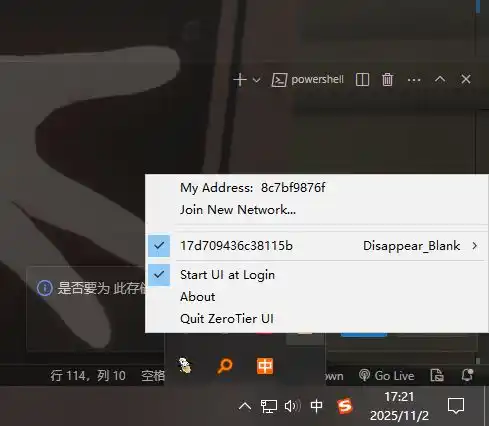
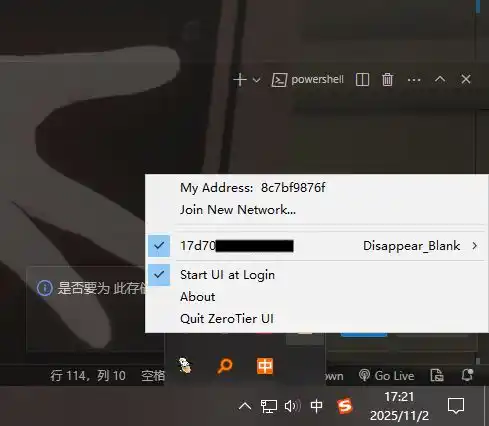
添加roop，以及更正图片

Changed region(s): [[0.4294, 0.5493, 0.6135, 0.6103]]

diff --git a/src/content/posts/Roop/roop.md b/src/content/posts/Roop/roop.md
@@ -1,0 +1,235 @@
+---
+title: Roop 项目实现本地 ai 换脸
+published: 2025-11-29
+description: "已经停止维护的 ai 换脸项目，有时识别不是很准确，勉强能用"
+tags: ["Roop", 教程, 本地工具]
+category: AI & ML
+draft: false
+---
+
+# Roop AI 换脸工具本地部署完整入门指南（源码版）
+
+> 本指南适用于 Windows 用户，使用 **Git 克隆源码 + Python 虚拟环境 + 手动模型配置** 的方式部署 [Roop](https://github.com/s0md3v/roop)（s0md3v 开发的轻量级 AI 换脸工具）。
+> 项目已停止维护，但仍可稳定运行。
+
+## 前提说明
+
+Roop 是一个基于 ONNX 和 InsightFace 的实时人脸交换工具，仅需一张源人脸图片即可完成换脸。
+它**不要求训练、不要求 GPU**（CPU 即可运行），但首次使用需下载两个核心模型：
+- `inswapper_128.onnx`：人脸交换模型（~528 MB）
+- `buffalo_l`：人脸检测/识别模型（~590 MB）
+
+:::caution[重要提醒]
+- 本篇指南由于懒惰的需要，修改了源码，禁用了NSFW检测，使用时请遵守法律法规，**不要用于伪造、诽谤或色情内容**
+- 使用真实人物人脸时，请获得授权
+- 在互联网上发布生成结果时，请明确标注为 “AI 生成” 或 “Deepfake”
+:::
+
+## 🔧 第一步：安装必要软件
+
+### 1. 安装 Python（推荐 3.10 或 3.11）
+> 虽然 Roop 可在 Python 3.9 运行，但官方推荐 3.10+。
+- 下载地址：https://www.python.org/downloads/
+- 安装时务必勾选 **“Add Python to PATH”**
+
+### 2. 安装 Git
+- 下载地址：https://git-scm.com/download/win
+- 安装时保持默认选项即可
+
+### 3. 安装 FFmpeg
+Roop 依赖 FFmpeg 处理视频：
+1. 访问 https://www.gyan.dev/ffmpeg/builds/
+2. 下载 **`ffmpeg-release-essentials.zip`**
+3. 解压到 `D:\tools\ffmpeg`（路径不要含中文或空格）
+4. 将 `D:\tools\ffmpeg\bin` 添加到系统 **PATH 环境变量**
+5. 打开新 PowerShell，运行 `ffmpeg -version` 验证
+
+## 第二步：使用 Git 克隆 Roop 源码
+
+> 使用终端命令获取源码（更规范、可追踪版本）
+
+```powershell
+# 打开 PowerShell，进入你想存放项目的目录
+cd D:\
+
+# 克隆官方仓库（注意：项目已归档，但代码仍可用）
+git clone https://github.com/s0md3v/roop.git roop-1.3.2
+
+# 进入项目目录
+cd roop-1.3.2
+```
+
+> 此时你已拥有完整源码，包含 `run.py`、`requirements.txt` 等文件。
+
+## 第三步：创建虚拟环境并安装依赖
+
+为避免污染全局 Python 环境，**强烈建议使用虚拟环境**：
+
+```powershell
+# 创建虚拟环境（名称为 venv）
+python -m venv venv --upgrade-deps
+
+
+# 激活虚拟环境
+.\venv\Scripts\Activate.ps1
+```
+
+> `--upgrade-deps` 参数会自动更新 `pip` 和 `setuptools`，避免“无 pip”问题。
+
+> 如果提示执行策略错误，先运行：
+> `Set-ExecutionPolicy -ExecutionPolicy RemoteSigned -Scope CurrentUser`
+
+### 安装依赖
+
+作者原先的电脑上已经装载了 Python 3.9 。所以：
+
+如果你的电脑上已经装载了 Python 3.9 ，刚好不想或者懒得更新，那么你会发现有些依赖在 3.9 下存在兼容性问题。不更新的解决办法是：移除这些依赖以及他们支持的功能（不影响基础使用，但高质量生成可能会受限）
+
+这两个兼容性差的插件是：
+
+`gfpgan` ，移除相关代码会放弃“人脸增强”功能（仅换脸），如果你不需要“高清修复”功能（即只要换脸，不要美化/清晰化），这就无关紧要。
+
+`opennsfw2` ， 是用来检测色情内容的，如果你不会处理敏感内容，完全可以安全禁用。
+
+由于 `gfpgan` 和 `opennsfw2` 在 Python 3.9 下存在兼容性问题，我们移除它们：
+
+1. 用记事本打开 `requirements.txt`
+2. **注释或删除以下两行**：
+```txt
+# gfpgan==1.3.8
+# opennsfw2==0.10.2
+```
+
+另外，你不需要安装 `tensorflow`（它只是 `opennsfw2` 的依赖），现在也可以从 `requirements.txt` 中彻底删除 `tensorflow==2.13.0` 这一行，减少体积。
+
+3. 保存文件
+
+然后安装依赖（**使用官方 PyPI 源，避免清华源限流**）：
+
+```powershell
+pip install --upgrade pip
+pip install -r requirements.txt -i https://pypi.org/simple/
+```
+
+## 第四步：禁用 NSFW 检测
+
+虽然你注释掉了 `requirements.txt` 中的 `gfpgan` 和 `opennsfw2` ，但是 Roop 的源码 默认集成了 NSFW（成人内容）检测模块，即使你不用它，代码里也会     `import opennsfw2`,导致启动失败。
+
+解决方案：禁用 NSFW 检测（修改源码）
+
+编辑 `roop/predictor.py`，**完全移除 NSFW 逻辑**：
+
+```python
+# D:\roop-1.3.2\roop\predictor.py
+import threading
+import numpy
+from PIL import Image
+from roop.typing import Frame
+
+# NSFW 检测已完全禁用，所有预测函数直接返回 False（表示“安全”）
+
+def get_predictor():
+    return None
+
+def clear_predictor():
+    pass
+
+def predict_frame(target_frame: Frame) -> bool:
+    return False  # 不检测，视为安全
+
+def predict_image(target_path: str) -> bool:
+    return False
+
+def predict_video(target_path: str) -> bool:
+    return False
+```
+
+> 保存后，程序不再尝试加载 `opennsfw2`，避免 ModuleNotFoundError。
+
+## 第五步：手动下载并放置模型
+
+### 1. 下载 `inswapper_128.onnx`（人脸交换模型）
+
+使用以下链接（无需登录，国内可直连）：
+🔗 https://github.com/facefusion/facefusion-assets/raw/main/models/inswapper_128.onnx
+
+下载后，放入 **项目目录下的 `models` 文件夹**：
+```
+D:\roop-1.3.2\models\inswapper_128.onnx
+```
+> 如果 `models` 文件夹不存在，请手动创建。
+
+### 2. 下载 `buffalo_l`（人脸分析模型）
+
+访问：
+🔗 https://github.com/deepinsight/insightface/releases/download/v0.7/buffalo_l.zip
+
+下载后：
+1. 解压得到 `buffalo_l` 文件夹
+2. 放入：
+```
+C:\Users\<你的用户名>\.insightface\models\buffalo_l\
+```
+> 注意：`.insightface` 是隐藏文件夹，需在文件资源管理器中开启“显示隐藏项目”。
+
+## 第六步：启动 Roop
+
+### 创建一键启动脚本 `run_roop.bat`
+
+在 `D:\roop-1.3.2\` 下新建文本文件，粘贴以下内容，保存为 `run_roop.bat`：
+
+```bat
+@echo off
+cd /d "%~dp0"
+
+REM 检查虚拟环境是否存在
+if not exist "venv\Scripts\python.exe" (
+    echo 错误：虚拟环境未找到！
+    echo 请先运行：python -m venv venv
+    echo 然后安装依赖：venv\Scripts\pip install -r requirements.txt
+    pause
+    exit /b 1
+)
+
+REM 激活虚拟环境并启动 Roop GUI
+call venv\Scripts\activate.bat
+python run.py
+
+pause
+```
+
+### 双击运行
+
+- 双击 `run_roop.bat`
+- 弹出 GUI 窗口即表示成功
+
+## 第七步：使用 GUI 换脸
+
+1. **Source image**：选择你的源人脸图片（清晰正面照，英文路径）
+2. **Target**：选择目标视频或图片（含人脸）
+3. **Output**：指定输出文件（如 `D:\output.mp4`）
+4. 点击 **Start**
+
+> 首次运行会加载模型，稍等片刻。处理速度取决于 CPU 性能（通常 1~5 FPS）。
+
+## 常见问题
+
+### Q1: 点击 Start 后卡住？
+- 首次运行需加载 `buffalo_l` 模型，耐心等待
+- 确保模型路径正确（见第五步）
+
+### Q2: 报错 “No face in source path detected”？
+- 换一张更清晰、正面、无遮挡的人脸图片
+- 使用纯英文路径（如 `D:\face.jpg`）
+
+### Q3: 模型下载失败？
+- 切换到手机热点
+- 关闭所有代理/加速器
+- 手动下载后放入指定目录
+
+## 🌟 结语
+
+通过 `git clone` 获取源码、虚拟环境隔离依赖、手动配置模型，你已成功部署 Roop。
+这种方式更透明、可控，也便于后续调试或修改。
+
+> 🎨 **技术是中立的，责任在于使用者**。请始终以负责任的态度使用 AI 换脸技术。
